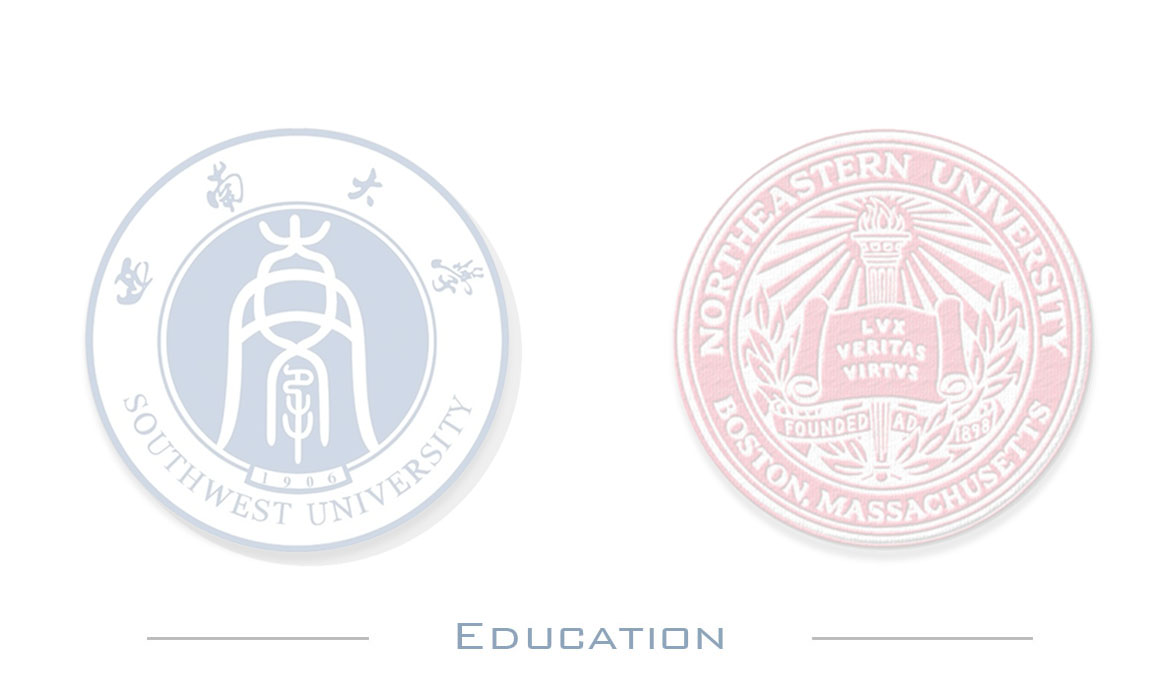
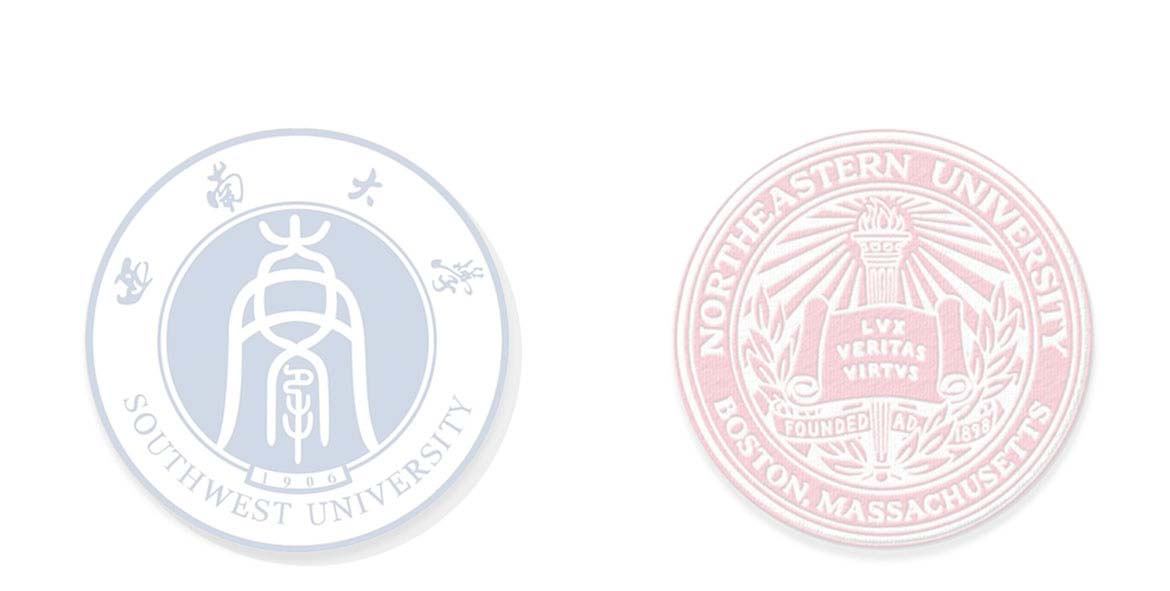
port

Changed region(s): [[0.5538, 0.1827, 0.9538, 0.9442], [0.0615, 0.1827, 0.4615, 0.9746], [0.3692, 0.9137, 0.6154, 0.9746]]

diff --git a/index.html b/index.html
@@ -132,6 +132,7 @@
 				background-size: cover;
 				background-position-y: center
 				height: 530px;
+				position: relative;
 			}
 		</style>
 
@@ -166,23 +167,18 @@
 				<li role="presentation">
 					<a href="#9" class="smooth">Photos</a>
 				</li>
-				<li role="presentation" class="pull-right" style="margin-right: 80px;">
-					<a tabindex="0" class="btn btn-lg btn-danger" role="button" data-toggle="popover" data-trigger="focus" data-placement="bottom" data-content="e-mail: hou.tia@husky.neu.edu phone: 857-769-1473">
-						Contact Me</a>
-				</li>
 
 			</ul>
 		</div>
 
 		<!--2.summary-->
 		<div class="container" id="2">
-			<div class="jumbotron" style="height: 530px; margin-top: 20px;">
-				<h1>Hi, Welcome To My Life!</h1>
+			<div class="jumbotron" style="height: 530px; margin-top: 20px; position: relative;">
+				<h1 style="position:absolute; top:6%; left: 5%;">Hi, Welcome To My Life!</h1>
 				<br />
-				<p>In here, you will know all about me, the real me.</p>
-				<p>
-					<a class="btn btn-primary btn-lg" href="#9" role="button" style="position:relative; top: 110%; right: -85%;">More&nbsp;&nbsp;Pictures</a>
-				</p>
+				<p style="position:absolute; top:26%; left: 8%;">In here, you will know all about me, the real me.</p>
+				<a tabindex="0" class="btn btn-lg btn-danger" style="position:absolute; bottom:30px; right: 100px;" role="button" data-toggle="popover" data-trigger="focus" data-placement="top" data-content="e-mail: hou.tia@husky.neu.edu &nbsp;&nbsp; phone: 857-769-1473">
+						Contact Me</a>
 			</div>
 
 		</div>
@@ -281,9 +277,10 @@
 
 		<!--4.education-->
 		<div id="4" class="container">
-			<div class="row title bg" style="background-image: url(img/educationBG.jpg);">
-				<div class="col-lg-6 col-sm-6" style="padding-right: 50px;">
-					<br /><br /><br /><br /><br /><br />
+			<div class="row title" style="position:relative">
+				<div class="col-lg-6 col-sm-6" style="position:relative;">
+					<img src="img/education1.jpg" width="100%" />
+					<div style="position: absolute; top: 20%; left: 10%;">
 					<h3 id="university">Southwest University</h3> &nbsp;&nbsp;&nbsp;&nbsp;&nbsp;&nbsp;&nbsp;&nbsp;&nbsp;&nbsp;&nbsp;&nbsp;&nbsp;&nbsp;&nbsp;&nbsp;&nbsp;&nbsp;&nbsp;&nbsp;&nbsp;&nbsp;&nbsp;&nbsp;&nbsp;&nbsp;&nbsp;&nbsp;&nbsp;&nbsp;&nbsp;&nbsp;&nbsp;&nbsp;&nbsp;&nbsp; &nbsp;&nbsp;&nbsp;&nbsp;&nbsp;&nbsp;&nbsp;&nbsp;&nbsp;&nbsp;&nbsp;&nbsp;&nbsp;&nbsp;&nbsp;&nbsp;&nbsp;&nbsp;&nbsp;&nbsp; &nbsp;&nbsp;&nbsp;&nbsp;&nbsp;&nbsp;&nbsp;&nbsp;&nbsp;&nbsp;&nbsp;&nbsp;&nbsp;&nbsp;&nbsp;&nbsp;&nbsp;&nbsp;&nbsp;&nbsp;&nbsp;&nbsp; &nbsp;&nbsp;&nbsp;&nbsp;&nbsp;&nbsp;&nbsp;
 					<span id="edutext">Chongqing City, China</span><br/><br/>
 					<p id="edutext">
@@ -296,9 +293,11 @@
 						<font id="edutitle">Bachelor of Economics in Finance, School of Economics and Management </font><br/> &nbsp;&nbsp;&nbsp;&nbsp;&nbsp;&nbsp;&nbsp;&nbsp;&nbsp;&nbsp;&nbsp;&nbsp;&nbsp;&nbsp;&nbsp;&nbsp;&nbsp;&nbsp;&nbsp;&nbsp;&nbsp;&nbsp;&nbsp;&nbsp;&nbsp;&nbsp;&nbsp;&nbsp;&nbsp;&nbsp;&nbsp;&nbsp;&nbsp;&nbsp;&nbsp;&nbsp; &nbsp;&nbsp;&nbsp;&nbsp;&nbsp;&nbsp;&nbsp;&nbsp;&nbsp;&nbsp;&nbsp;&nbsp;&nbsp;&nbsp;&nbsp;&nbsp;&nbsp;&nbsp;&nbsp;&nbsp; &nbsp;&nbsp;&nbsp;&nbsp;&nbsp;&nbsp;&nbsp;&nbsp;&nbsp;&nbsp;&nbsp;&nbsp;&nbsp;&nbsp;&nbsp;&nbsp;&nbsp;&nbsp;&nbsp;&nbsp;&nbsp;&nbsp; &nbsp;&nbsp;&nbsp;&nbsp;&nbsp;&nbsp;&nbsp;Sep. 2012-Jul. 2014 <br/>
 						<font id="edutitle">Relevant Courses</font>: &nbsp;Principles of Management, Principles of Statistics, Microeconomics, Macroeconomics.
 					</p>
+					</div>
 				</div>
-				<div class="col-lg-6 col-sm-6">
-					<br /><br /><br /><br /><br /><br />
+				<div class="col-lg-6 col-sm-6" style="position:relative;">
+					<img src="img/education2.jpg"  width="100%" />
+					<div style="position: absolute; top: 20%; left: 10%;">
 					<h3 id="university">Northeastern University</h3> &nbsp;&nbsp;&nbsp;&nbsp;&nbsp;&nbsp;&nbsp;&nbsp;&nbsp;&nbsp;&nbsp;&nbsp;&nbsp;&nbsp;&nbsp;&nbsp;&nbsp;&nbsp;&nbsp;&nbsp;&nbsp;&nbsp;&nbsp;&nbsp;&nbsp;&nbsp;&nbsp;&nbsp;&nbsp;&nbsp;&nbsp;&nbsp;&nbsp;&nbsp;&nbsp;&nbsp; &nbsp;&nbsp;&nbsp;&nbsp;&nbsp;&nbsp;&nbsp;&nbsp;&nbsp;&nbsp;&nbsp;&nbsp;&nbsp;&nbsp;&nbsp;&nbsp;&nbsp;&nbsp;&nbsp;&nbsp; &nbsp;&nbsp;&nbsp;&nbsp;&nbsp;&nbsp;&nbsp;&nbsp;&nbsp;&nbsp;&nbsp;&nbsp;&nbsp;&nbsp;&nbsp;&nbsp;&nbsp;&nbsp;&nbsp;&nbsp;&nbsp;&nbsp; &nbsp;&nbsp;&nbsp;&nbsp;&nbsp;&nbsp;&nbsp;
 					<span id="edutext">Seattle, WA, U.S</span><br/><br/>
 					<p id="edutext">
@@ -307,7 +306,11 @@
 						<font id="edutitle">Ranking </font>:&nbsp;&nbsp;<br/>
 						<font id="edutitle">Relevant Knowledge</font>: &nbsp;Application Engineering and Development, Web Design and User Experience Engineering, Program Structure and Algorithms, Data Management and Database Design, Web Development Tools and Methods, Smartphones-Based Web Development, etc.<br/> <br/>
 					</p>
+					</div>
 				</div>
+			</div>
+			<div class="row">
+				<img class="img-responsive" src="img/logoEdu.jpg" width="100%" height="100%" />
 			</div>
 		</div>
 
